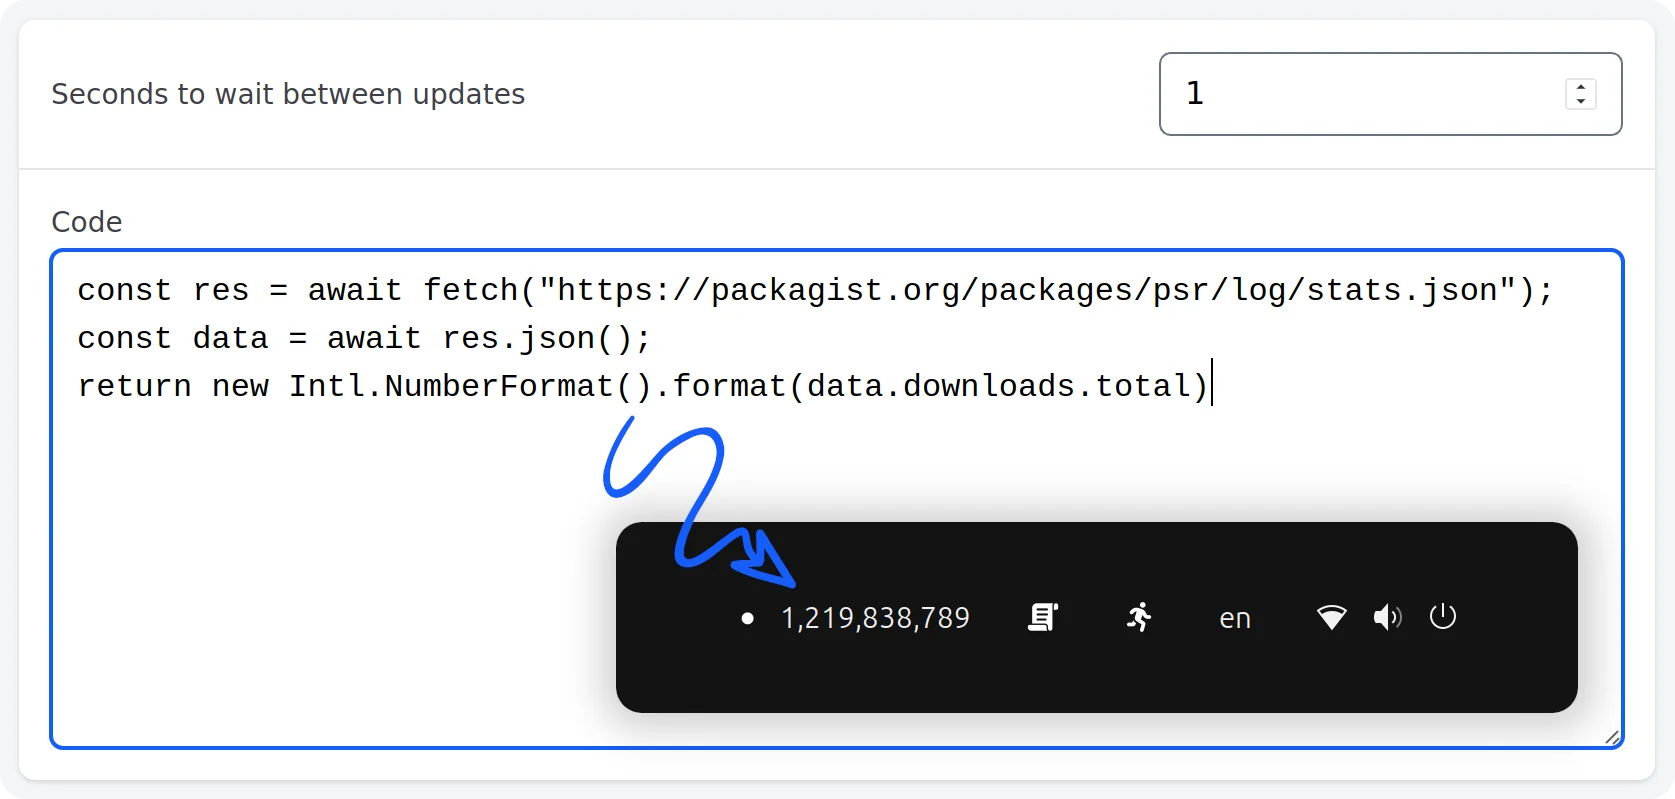
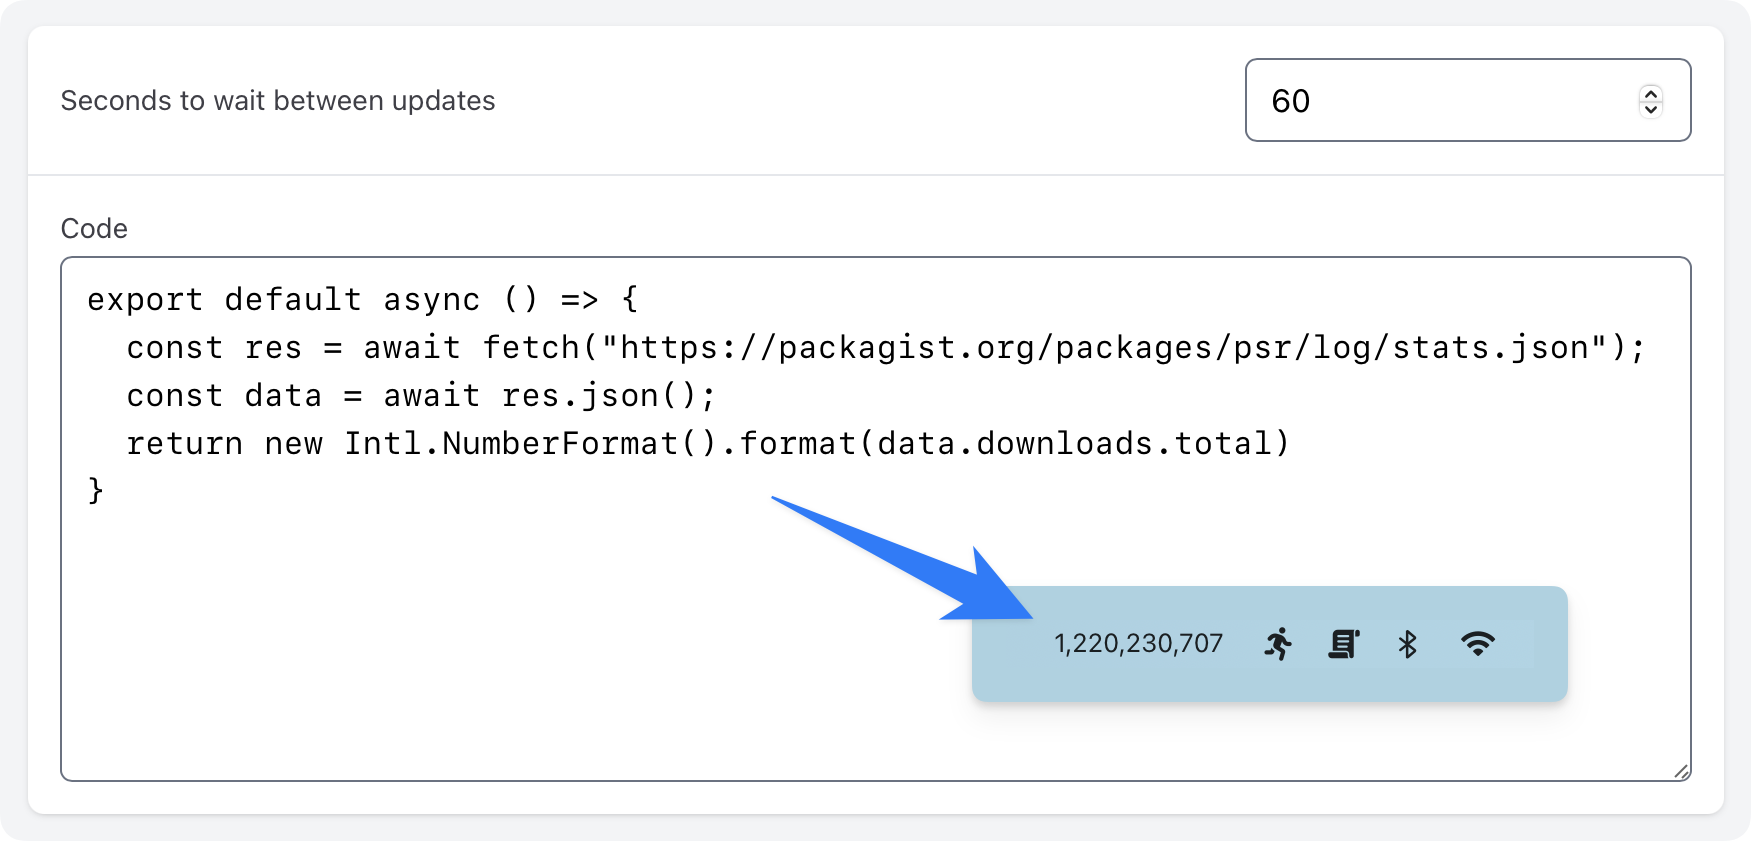
Examples

diff --git a/src/index.html b/src/index.html
@@ -1,5 +1,5 @@
 <!doctype html>
-<html lang="en" class="h-full bg-gray-100">
+<html lang="en" class="h-full bg-gray-100 dark:bg-zinc-900 dark:text-zinc-200">
   <head>
     <meta charset="UTF-8" />
     <title>Traybits</title>
@@ -8,19 +8,19 @@
     <script type="module" src="/main.js" defer></script>
   </head>
   <body class="flex flex-col h-full">
-    <div class="m-4 bg-white rounded-lg shadow flex flex-col divide-y divide-gray-200 h-full">
+    <div class="m-4 bg-white rounded-lg shadow flex flex-col divide-y divide-gray-200 h-full dark:bg-zinc-900 dark:divide-zinc-800 dark:border dark:border-zinc-800">
       <div class="flex items-center px-4 py-4">
-        <label for="timeout" class="text-sm text-zinc-700">Seconds to wait between updates</label>
-        <input class="ml-auto rounded-md" id="timeout" type="number" min="1" value="60">
+        <label for="timeout" class="text-sm text-zinc-700 dark:text-zinc-100">Seconds to wait between updates</label>
+        <input class="ml-auto rounded-md dark:bg-zinc-800 dark:border-zinc-800 dark:text-zinc-200" id="timeout" type="number" min="1" value="60">
       </div>
       <div class="flex flex-col px-4 py-4 h-full">
-        <label for="code" class="text-sm text-zinc-700">Code</label>
-        <textarea id="code" spellcheck="false" class="mt-1 rounded-md break-all h-full font-mono"></textarea>
+        <label for="code" class="text-sm text-zinc-700 dark:text-zinc-100">Code</label>
+        <textarea id="code" spellcheck="false" class="mt-1 rounded-md break-all h-full font-mono dark:bg-zinc-800 dark:border-zinc-800 dark:text-zinc-200"></textarea>
       </div>
     </div>
     <div class="m-4 mt-auto flex gap-4 items-center justify-end px-4 py-4">
       <div id="status" class="text-xs"></div>
-      <button id="save" class="rounded-md bg-gray-800 text-white text-sm px-5 py-2.5">Save &amp; Run</button>
+      <button id="save" class="rounded-md bg-gray-800 text-white text-sm px-5 py-2.5 dark:text-black dark:bg-zinc-200">Save &amp; Run</button>
     </div>
   </body>
 </html>

diff --git a/README.md b/README.md
@@ -2,7 +2,11 @@
 
 Bits of information fetched with javascript in the system tray.
 
-<img alt="Screenshot of the Traybits app" src="./media/screenshot-light.webp" width="840">
+<picture>
+    <source media="(prefers-color-scheme: dark)" srcset="./media/screenshot-dark.webp" width="873">
+    <img alt="Screenshot of the Traybits app" src="./media/screenshot-light.webp" width="876">
+</picture>
+
 
 ## Developement
 
@@ -15,4 +19,84 @@ npm run tauri icon media/app-icon.png
 
 # build binaries
 npm run tauri build
+```
+
+## Bits examples
+
+### Packagist download count
+
+```js
+export default async () => {
+  const res = await fetch("https://packagist.org/packages/psr/log/stats.json");
+  const data = await res.json();
+  return new Intl.NumberFormat().format(data.downloads.total)
+}
+```
+
+### GitHub stars and issues
+
+<img alt="Screenshot of the GitHub stars" src="./media/screenshot-github.webp" width="241">
+
+```js
+export default async () => {
+  const res = await fetch('https://api.github.com/repos/tauri-apps/tauri');
+  const data = await res.json();
+  return `★ ${new Intl.NumberFormat('en', {
+    notation: 'compact',
+    maximumFractionDigits: 0,
+  }).format(data.stargazers_count)} ⚠ ${data.open_issues_count}`;
+}
+```
+
+### Football match score
+
+<img alt="Screenshot of the football score" src="./media/screenshot-football.webp" width="202">
+
+```js
+const FIFA_TO_ISO = {
+  NED: 'NL',
+  SWE: 'SE',
+  GER: 'DE',
+  FRA: 'FR',
+  ESP: 'ES',
+  ENG: 'GB',
+  USA: 'US',
+  BRA: 'BR',
+  ARG: 'AR',
+};
+
+function flag(abbr) {
+  if (!FIFA_TO_ISO[abbr]) {
+    return abbr;
+  }
+  return FIFA_TO_ISO[abbr].replace(/./g, c => String.fromCodePoint(127397 + c.charCodeAt()));
+}
+
+export default async () => {
+  const res = await fetch('https://site.api.espn.com/apis/site/v2/sports/soccer/all/scoreboard');
+  const data = await res.json();
+  const game = data.events?.[0];
+
+  if (!game) {
+    return '⚽';
+  }
+
+  const [home, away] = game.competitions[0].competitors;
+
+  return [
+    flag(home.team.abbreviation),
+    `${home.score}:${away.score}`,
+    flag(away.team.abbreviation),
+  ].join(' ');
+}
+```
+
+### Days till New Year
+
+```js
+export default async () => {
+  const now = new Date();
+  const newYear = new Date(now.getFullYear() + 1, 0, 1);
+  return '' + Math.ceil((newYear - now) / 86400000);
+}
 ```